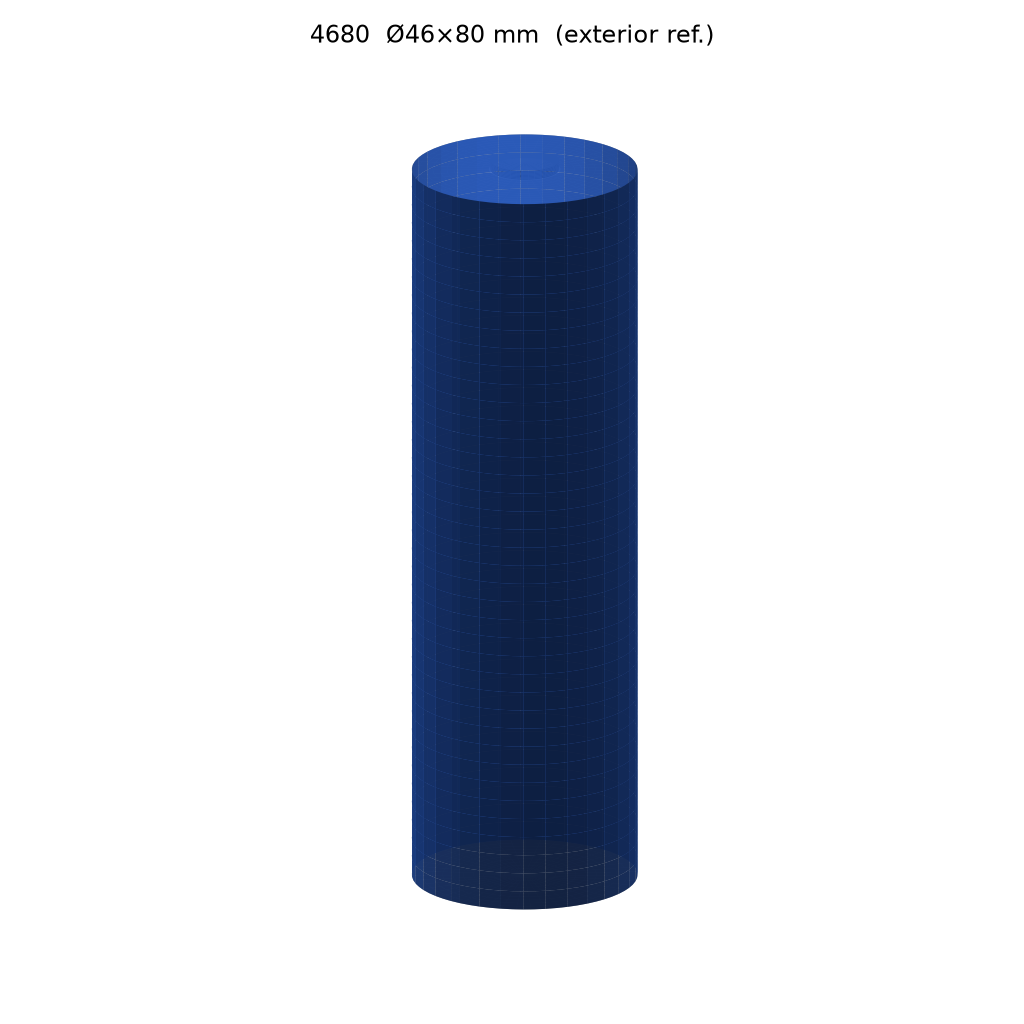
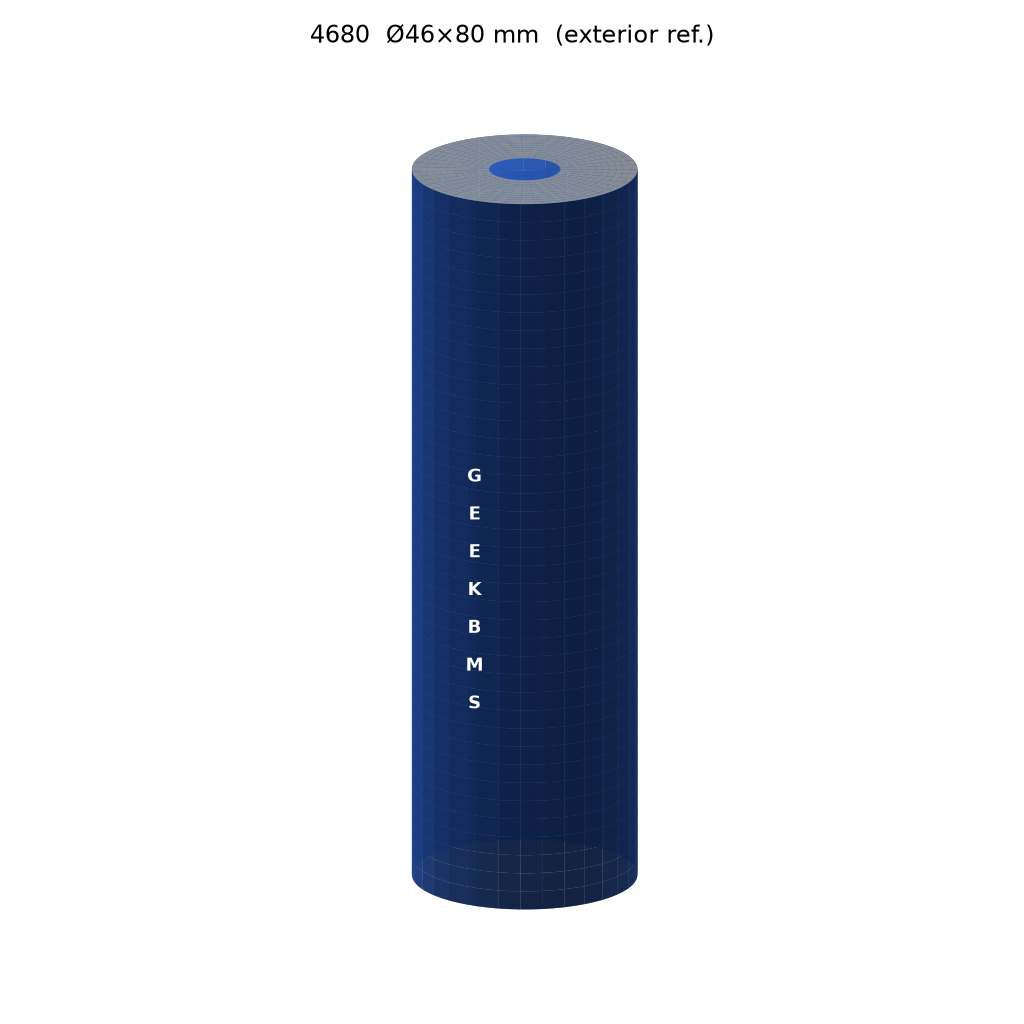
Fix GEEKBMS label orientation: vertical along cell axis
Portrait side panels and 90° text rotation so lettering reads along +Z.
Shallow silk-screen / decal film (~0.06 mm raise in 0.08 mm panel) instead of deep engraving; larger type on all four specs.

Changed region(s): [[0.4062, 0.125, 0.625, 0.2188], [0.4375, 0.5312, 0.4688, 0.6562]]

diff --git a/scripts/make_cells.py b/scripts/make_cells.py
@@ -5,7 +5,8 @@ Coordinate system (documented in README):
   - Origin on cell axis at the negative-end flat (z=0).
   - +Z toward the positive terminal.
   - Cylinder OD and both end flats kept as assembly datums;
-    "GEEKBMS" lettering is recessed into a side-wall panel.
+    "GEEKBMS" is a shallow silk-screen / decal on a portrait side-wall panel
+    (lettering vertical along +Z).
 """
 
 from __future__ import annotations
@@ -23,15 +24,17 @@ PREVIEW_DIR = ROOT / "preview"
 
 # Nominal envelope (mm): diameter × height
 SPECS = {
+    # panel_w = circumferential (local X / global Y); panel_h = axial (local Y / global Z)
+    # Portrait panels: axial height > circumferential width so "GEEKBMS" sits vertically.
     "18650": {
         "diameter": 18.0,
         "height": 65.0,
         "pos_btn_d": 6.5,
         "pos_btn_h": 0.8,
         "insulator_od": 12.0,
-        "panel_w": 14.0,
-        "panel_h": 7.5,
-        "text_size": 2.0,
+        "panel_w": 6.0,
+        "panel_h": 22.0,
+        "text_size": 3.5,
         "wrap_color": "blue",
         "cap_color": "nickel",
     },
@@ -41,9 +44,9 @@ SPECS = {
         "pos_btn_d": 7.5,
         "pos_btn_h": 0.9,
         "insulator_od": 14.0,
-        "panel_w": 16.0,
-        "panel_h": 8.0,
-        "text_size": 2.3,
+        "panel_w": 6.5,
+        "panel_h": 25.0,
+        "text_size": 4.0,
         "wrap_color": "green",
         "cap_color": "nickel",
     },
@@ -53,9 +56,9 @@ SPECS = {
         "pos_btn_d": 9.0,
         "pos_btn_h": 0.9,
         "insulator_od": 17.0,
-        "panel_w": 20.0,
-        "panel_h": 8.5,
-        "text_size": 2.8,
+        "panel_w": 7.5,
+        "panel_h": 28.0,
+        "text_size": 4.5,
         "wrap_color": "black",
         "cap_color": "nickel",
     },
@@ -65,9 +68,9 @@ SPECS = {
         "pos_btn_d": 14.0,
         "pos_btn_h": 1.0,
         "insulator_od": 28.0,
-        "panel_w": 34.0,
-        "panel_h": 12.0,
-        "text_size": 4.5,
+        "panel_w": 10.0,
+        "panel_h": 38.0,
+        "text_size": 6.0,
         "wrap_color": "blue",
         "cap_color": "nickel",
     },
@@ -101,8 +104,9 @@ def build_cell(name: str, spec: dict) -> cq.Workplane:
     wrap_end_margin = max(1.0, 0.06 * H)
     groove_w = 0.35
     groove_d = 0.12
-    panel_depth = 0.25
-    text_depth = 0.40
+    # Shallow silk-screen / decal look (not deep engraved grooves)
+    panel_depth = 0.08  # hairline panel recess
+    text_raise = 0.06  # slight raised film above panel floor (stays under OD)
     panel_z = body_h * 0.45
 
     # Main wrap cylinder — OD is the assembly datum diameter
@@ -144,7 +148,7 @@ def build_cell(name: str, spec: dict) -> cq.Workplane:
     )
     cell = cell.union(button)
 
-    # Recessed label panel on +X wrap wall (does not increase OD)
+    # Shallow label panel on +X wrap wall (portrait: axial h > circ w; does not increase OD)
     panel_cut = (
         cq.Workplane("YZ")
         .workplane(offset=R)
@@ -154,14 +158,15 @@ def build_cell(name: str, spec: dict) -> cq.Workplane:
     )
     cell = cell.cut(panel_cut)
 
-    # Recessed "GEEKBMS" lettering inside the panel
+    # Silk-screen style "GEEKBMS": rotate 90° in YZ so lettering reads along +Z (cell axis),
+    # then raise a thin film from the panel floor (under OD — not a deep carve).
     text_solid = (
         cq.Workplane("YZ")
         .workplane(offset=R - panel_depth)
-        .transformed(offset=(0, panel_z, 0))
-        .text("GEEKBMS", text_size, -text_depth, font="DejaVu Sans", kind="bold")
+        .transformed(rotate=(0, 0, 90), offset=(0, panel_z, 0))
+        .text("GEEKBMS", text_size, text_raise, font="DejaVu Sans", kind="bold")
     )
-    cell = cell.cut(text_solid)
+    cell = cell.union(text_solid)
 
     return cell
 
@@ -284,25 +289,42 @@ def render_preview_png(name: str, spec: dict, out_path: Path) -> None:
         shade=True,
     )
 
-    # Label marker on +X
-    ax.text(
-        R * 0.15,
-        0,
-        body_h * 0.45,
-        "GEEKBMS",
-        color="white",
-        fontsize=8,
-        ha="center",
-        va="center",
-        fontweight="bold",
-    )
+    # Vertical label marker on +X (portrait panel + lettering along +Z)
+    panel_w = float(spec["panel_w"])
+    panel_h = float(spec["panel_h"])
+    panel_z = body_h * 0.45
+    y_box = [-panel_w / 2, panel_w / 2, panel_w / 2, -panel_w / 2, -panel_w / 2]
+    z_box = [
+        panel_z - panel_h / 2,
+        panel_z - panel_h / 2,
+        panel_z + panel_h / 2,
+        panel_z + panel_h / 2,
+        panel_z - panel_h / 2,
+    ]
+    ax.plot([R * 1.01] * 5, y_box, z_box, color="white", linewidth=1.0, alpha=0.95)
+    label = "GEEKBMS"
+    span = panel_h * 0.78
+    for i, ch in enumerate(label):
+        zi = panel_z + span / 2 - (i + 0.5) * (span / len(label))
+        ax.text(
+            R * 1.05,
+            0.0,
+            zi,
+            ch,
+            color="white",
+            fontsize=8,
+            ha="center",
+            va="center",
+            fontweight="bold",
+            zorder=10,
+        )
 
     lim = max(D, H) * 0.55
     ax.set_xlim(-lim, lim)
     ax.set_ylim(-lim, lim)
     ax.set_zlim(0, H)
     ax.set_box_aspect((D, D, H))
-    ax.view_init(elev=18, azim=35)
+    ax.view_init(elev=18, azim=25)
     ax.set_axis_off()
     ax.set_title(f"{name}  Ø{D:g}×{H:g} mm  (exterior ref.)", fontsize=11, pad=8)
 

diff --git a/README.md b/README.md
@@ -29,7 +29,7 @@ See `catalog.yaml` for machine-readable metadata.
          │   ┌─────┐
          │   │ btn │
          │ ┌─┴─────┴─┐
-         │ │  wrap   │  ← recessed "GEEKBMS" on side wall
+         │ │  wrap   │  ← vertical silk-screen "GEEKBMS" on side wall
          │ │         │
          │ └─────────┘
          ○────────────→ +X
@@ -44,7 +44,7 @@ Kept clean for mates / fixtures:
 2. **Negative end flat** — planar face at `z = 0`.
 3. **Positive end shoulder** — top of wrap body (button sits above it).
 
-Lettering and heat-shrink cues are **recessed into the wrap side wall** so they do not grow the OD or break the end flats.
+Lettering is a shallow silk-screen / decal (near-flush film) on a portrait side panel; heat-shrink cues are recessed into the wrap side wall. Neither grows the OD nor breaks the end flats.
 
 ## Naming rules
 
@@ -61,7 +61,7 @@ Included (exterior cues only):
 - Shallow end grooves suggesting wrap tuck.
 - Positive button terminal.
 - Simple insulator ring recess around the button base.
-- Recessed side panel with raised-look **GEEKBMS** engraved lettering.
+- Portrait side panel with vertical silk-screen **GEEKBMS** lettering (along cell axis).
 
 Not included:
 
